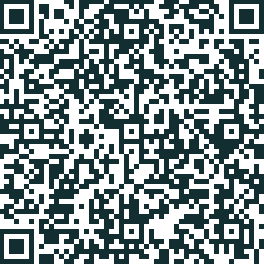
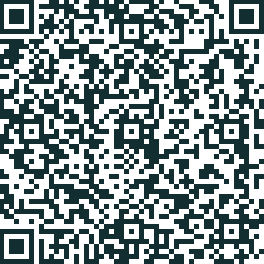
Performace Efficeient WhatsApp handler with commands on telegramBot

diff --git a/controller/zapSession/session.js b/controller/zapSession/session.js
@@ -2,11 +2,54 @@ const { json } = require('body-parser');
 const venom = require('venom-bot');
 const fs = require('fs');
 const path = require('path');
+const photo = '../../out.png';
+const photoPath = path.join(__dirname, '../../out.png');
+
 
 const  { fileURLToPath } = require("url");
 
 
 let whatsappClient;
+
+const handleQRCode = async (base64Qr) => {
+  try {
+    const matches = base64Qr.match(/^data:([A-Za-z-+\/]+);base64,(.+)$/);
+    if (!matches || matches.length !== 3) {
+      throw new Error('Invalid input string');
+    }
+
+    const response = {};
+    response.type = matches[1];
+    response.data = Buffer.from(matches[2], 'base64');
+
+    const imageBuffer = response;
+
+    await new Promise((resolve, reject) => {
+      require('fs').writeFile(
+        'out.png',
+        imageBuffer['data'],
+        'binary',
+        (err) => {
+          if (err != null) {
+            console.log(err);
+            reject(err);
+          } else {
+            resolve();
+          }
+        }
+      );
+    });
+
+    // Now, call sendQrCode after the file is written
+    sendQrCode(photoPath);
+  } catch (error) {
+    throw error;
+  }
+};
+
+
+
+
 
 const initializeSession = () => {
   console.log("itcomes")
@@ -16,6 +59,8 @@ const initializeSession = () => {
         session: 'session-name',
         headless: false,
         autoClose: 60000,
+      }, (base64Qr, asciiQR, attempts, urlCode) => {
+        handleQRCode(base64Qr);
       })
       .then((client) => {
         whatsappClient = client;
@@ -47,11 +92,30 @@ const closeSession = async(req,res) =>{
 
 }
 
-const sendQrCode = async (req,res)=>{
 
-  return
+const sendQrCode = async (photoPath) => {
+  try {
+    const  telegramBot = require('../apisStatus/apiStatus')
 
-}
+    const photoBuffer = fs.readFileSync(photoPath);
+    telegramBot.sendMessage(process.env.TELEGRAM_CHAT_ID_APISTATUS, 'QrCode');
+    await telegramBot.sendPhoto(
+      process.env.TELEGRAM_CHAT_ID_APISTATUS,
+      photoBuffer,
+      { caption: 'QrCode' }
+    );
+   // fs.unlinkSync(photoPath);
+
+
+    console.log('Photo sent successfully.');
+  } catch (error) {
+    console.error('Error sending photo:', error);
+  }
+};
+
+//sendQrCode(photoPath);
+
+
 // Function to get the initialized whatsappClient
 const getWhatsappClient = async () => {
   try{

diff --git a/controller/apisStatus/checkZap.js b/controller/apisStatus/checkZap.js
@@ -9,7 +9,6 @@ const sendCheckMsg = async () => {
     const whatsappClient = await getWhatsappClient();
 
    const result =  await  whatsappClient.sendText(`5561986250932@c.us`, "Check Check Check")
-   console.log(result)
    return true;
 
   }catch(error){return false;};
